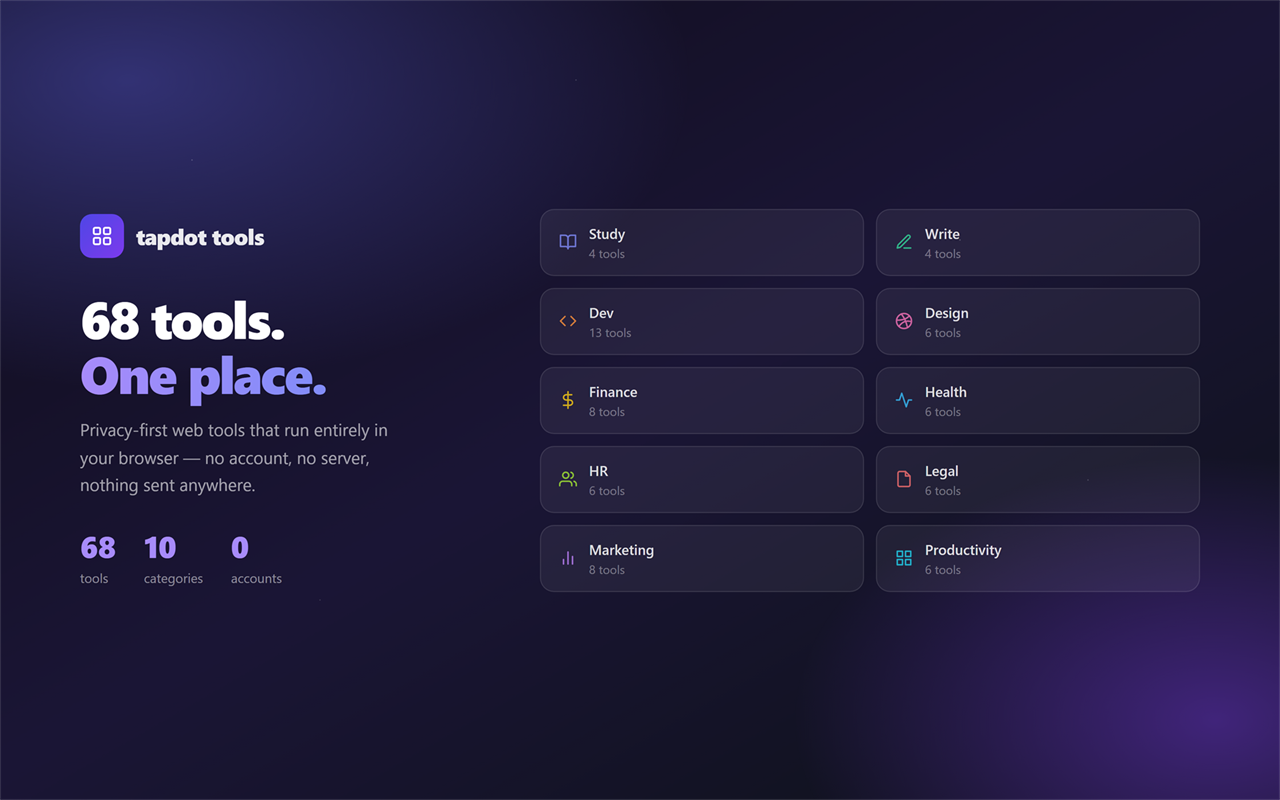
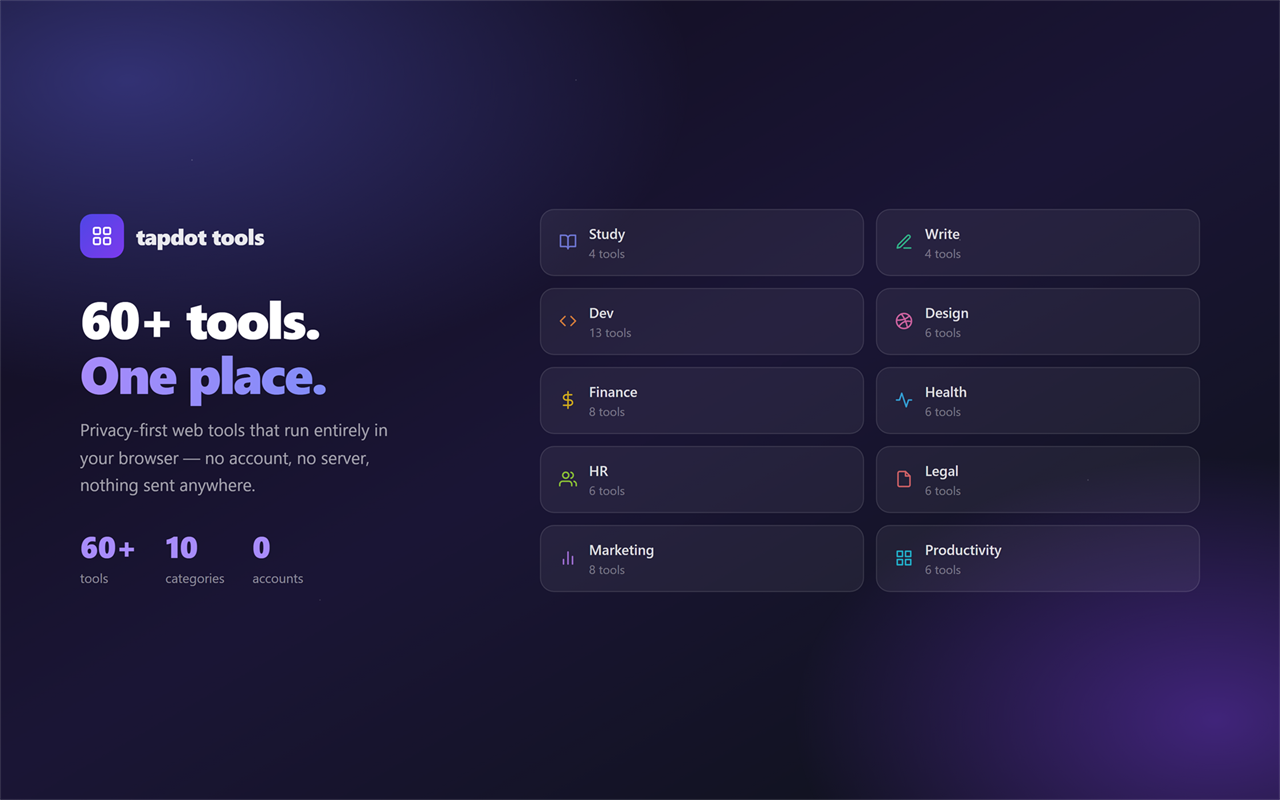
Fix tools-promo card image: replace 68 with 60+ tools

Changed region(s): [[0.0938, 0.6562, 0.25, 0.75], [0.0938, 0.375, 0.25, 0.4375]]

diff --git a/assets/img/tools-promo.html b/assets/img/tools-promo.html
@@ -1,0 +1,53 @@
+<!DOCTYPE html><html><head><meta charset="UTF-8"><style>
+*{margin:0;padding:0;box-sizing:border-box}
+html,body{width:1280px;height:800px;overflow:hidden;font-family:-apple-system,BlinkMacSystemFont,'Segoe UI',Roboto,sans-serif;-webkit-font-smoothing:antialiased}
+.bg{position:absolute;inset:0;background:radial-gradient(ellipse 80% 70% at 10% 10%,rgba(99,102,241,.4),transparent 55%),radial-gradient(ellipse 60% 60% at 95% 90%,rgba(124,58,237,.45),transparent 55%),linear-gradient(150deg,#0f0c1a 0%,#1a1535 50%,#0d1117 100%)}
+.stars{position:absolute;inset:0;opacity:.35;background-image:radial-gradient(1px 1px at 15% 20%,rgba(255,255,255,.9),transparent),radial-gradient(1px 1px at 45% 10%,rgba(255,255,255,.7),transparent),radial-gradient(1px 1px at 75% 30%,rgba(255,255,255,.9),transparent),radial-gradient(1px 1px at 25% 75%,rgba(255,255,255,.6),transparent),radial-gradient(1px 1px at 85% 60%,rgba(255,255,255,.8),transparent)}
+.wrap{position:absolute;inset:0;display:flex;align-items:center;padding:0 80px;gap:60px}
+.left{flex:0 0 400px;color:#fff}
+.brand{display:flex;align-items:center;gap:12px;margin-bottom:32px}
+.brand-dot{width:44px;height:44px;border-radius:12px;background:linear-gradient(135deg,#4f46e5,#7c3aed);display:flex;align-items:center;justify-content:center}
+.brand-dot svg{width:22px;height:22px;fill:none;stroke:#fff;stroke-width:2;stroke-linecap:round;stroke-linejoin:round}
+.brand-nm{font-size:22px;font-weight:800;letter-spacing:-.02em;opacity:.9}
+.h{font-size:52px;font-weight:800;letter-spacing:-2px;line-height:1.06}
+.h .g{background:linear-gradient(90deg,#a78bfa,#818cf8);-webkit-background-clip:text;-webkit-text-fill-color:transparent;background-clip:text}
+.sub{margin-top:16px;font-size:17px;color:rgba(255,255,255,.6);line-height:1.6;max-width:340px}
+.stat{margin-top:28px;display:flex;gap:28px}
+.stat-n{font-size:30px;font-weight:800;color:#a78bfa}
+.stat-l{font-size:13px;color:rgba(255,255,255,.5);margin-top:2px}
+.right{flex:1;display:grid;grid-template-columns:1fr 1fr;gap:12px}
+.chip{padding:14px 18px;border-radius:14px;background:rgba(255,255,255,.06);border:1px solid rgba(255,255,255,.1);display:flex;align-items:center;gap:12px}
+.chip svg{width:18px;height:18px;fill:none;stroke:currentColor;stroke-width:2;stroke-linecap:round;stroke-linejoin:round;flex-shrink:0;opacity:.8}
+.chip-t{font-size:14px;font-weight:600;color:rgba(255,255,255,.85)}
+.chip-c{font-size:12px;color:rgba(255,255,255,.4);margin-top:2px}
+.c0{color:#818cf8}.c1{color:#34d399}.c2{color:#fb923c}.c3{color:#f472b6}.c4{color:#facc15}.c5{color:#38bdf8}.c6{color:#a3e635}.c7{color:#f87171}.c8{color:#c084fc}.c9{color:#22d3ee}
+</style></head><body>
+<div class="bg"></div><div class="stars"></div>
+<div class="wrap">
+  <div class="left">
+    <div class="brand">
+      <div class="brand-dot"><svg viewBox="0 0 24 24"><rect x="3" y="3" width="7" height="7" rx="1.5"/><rect x="14" y="3" width="7" height="7" rx="1.5"/><rect x="3" y="14" width="7" height="7" rx="1.5"/><rect x="14" y="14" width="7" height="7" rx="1.5"/></svg></div>
+      <span class="brand-nm">tapdot tools</span>
+    </div>
+    <div class="h">60+ tools.<br><span class="g">One place.</span></div>
+    <div class="sub">Privacy-first web tools that run entirely in your browser — no account, no server, nothing sent anywhere.</div>
+    <div class="stat">
+      <div><div class="stat-n">60+</div><div class="stat-l">tools</div></div>
+      <div><div class="stat-n">10</div><div class="stat-l">categories</div></div>
+      <div><div class="stat-n">0</div><div class="stat-l">accounts</div></div>
+    </div>
+  </div>
+  <div class="right">
+    <div class="chip"><svg class="c0" viewBox="0 0 24 24"><path d="M2 3h6a4 4 0 0 1 4 4v14a3 3 0 0 0-3-3H2z"/><path d="M22 3h-6a4 4 0 0 0-4 4v14a3 3 0 0 1 3-3h7z"/></svg><div><div class="chip-t">Study</div><div class="chip-c">4 tools</div></div></div>
+    <div class="chip"><svg class="c1" viewBox="0 0 24 24"><path d="M12 20h9"/><path d="M16.5 3.5a2.121 2.121 0 0 1 3 3L7 19l-4 1 1-4L16.5 3.5z"/></svg><div><div class="chip-t">Write</div><div class="chip-c">4 tools</div></div></div>
+    <div class="chip"><svg class="c2" viewBox="0 0 24 24"><polyline points="16 18 22 12 16 6"/><polyline points="8 6 2 12 8 18"/></svg><div><div class="chip-t">Dev</div><div class="chip-c">13 tools</div></div></div>
+    <div class="chip"><svg class="c3" viewBox="0 0 24 24"><circle cx="12" cy="12" r="10"/><path d="M8.56 2.75c4.37 6.03 6.02 9.42 8.03 17.72m2.54-15.38c-3.72 4.35-8.94 5.66-16.88 5.85m19.5 1.9c-3.5-.93-6.63-.82-8.94 0-2.58.92-5.01 2.86-7.44 6.32"/></svg><div><div class="chip-t">Design</div><div class="chip-c">6 tools</div></div></div>
+    <div class="chip"><svg class="c4" viewBox="0 0 24 24"><line x1="12" y1="1" x2="12" y2="23"/><path d="M17 5H9.5a3.5 3.5 0 0 0 0 7h5a3.5 3.5 0 0 1 0 7H6"/></svg><div><div class="chip-t">Finance</div><div class="chip-c">8 tools</div></div></div>
+    <div class="chip"><svg class="c5" viewBox="0 0 24 24"><path d="M22 12h-4l-3 9L9 3l-3 9H2"/></svg><div><div class="chip-t">Health</div><div class="chip-c">6 tools</div></div></div>
+    <div class="chip"><svg class="c6" viewBox="0 0 24 24"><path d="M17 21v-2a4 4 0 0 0-4-4H5a4 4 0 0 0-4 4v2"/><circle cx="9" cy="7" r="4"/><path d="M23 21v-2a4 4 0 0 0-3-3.87"/><path d="M16 3.13a4 4 0 0 1 0 7.75"/></svg><div><div class="chip-t">HR</div><div class="chip-c">6 tools</div></div></div>
+    <div class="chip"><svg class="c7" viewBox="0 0 24 24"><path d="M14 2H6a2 2 0 0 0-2 2v16a2 2 0 0 0 2 2h12a2 2 0 0 0 2-2V8z"/><polyline points="14 2 14 8 20 8"/></svg><div><div class="chip-t">Legal</div><div class="chip-c">6 tools</div></div></div>
+    <div class="chip"><svg class="c8" viewBox="0 0 24 24"><path d="M18 20V10"/><path d="M12 20V4"/><path d="M6 20v-6"/></svg><div><div class="chip-t">Marketing</div><div class="chip-c">8 tools</div></div></div>
+    <div class="chip"><svg class="c9" viewBox="0 0 24 24"><rect x="3" y="3" width="7" height="7"/><rect x="14" y="3" width="7" height="7"/><rect x="14" y="14" width="7" height="7"/><rect x="3" y="14" width="7" height="7"/></svg><div><div class="chip-t">Productivity</div><div class="chip-c">6 tools</div></div></div>
+  </div>
+</div>
+</body></html>